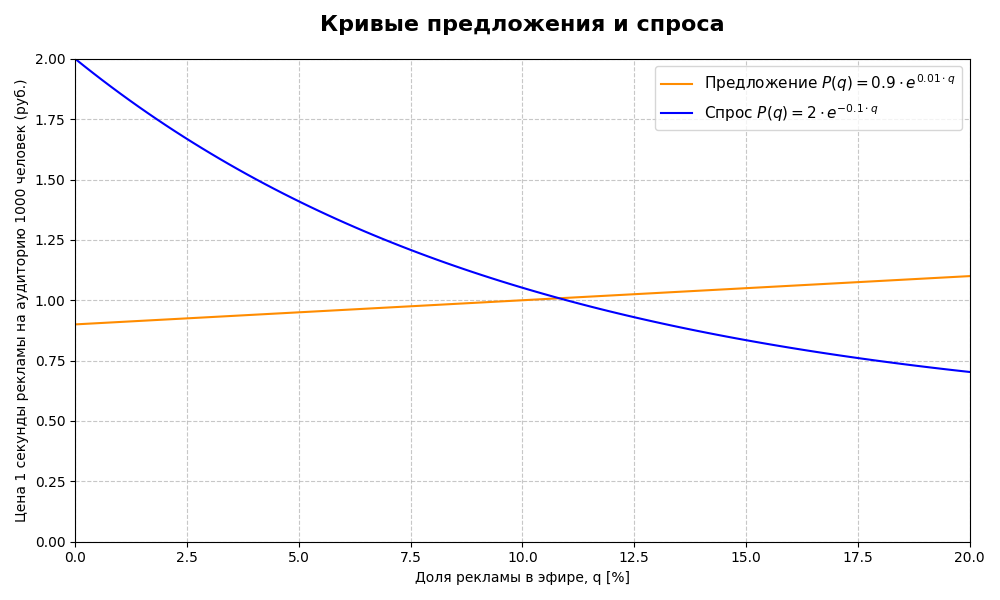
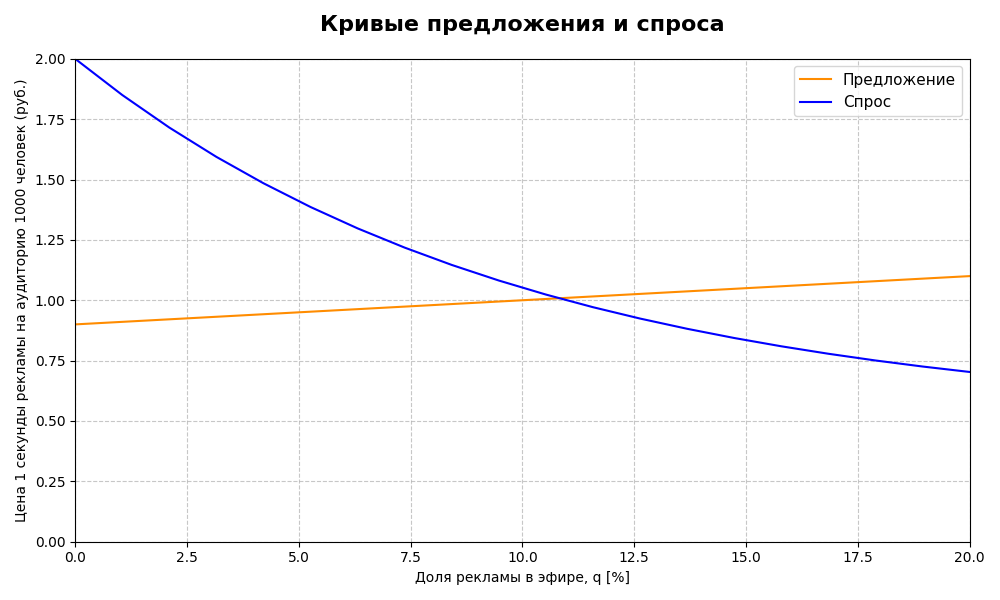
update charts

Changed region(s): [[0.651, 0.12, 0.961, 0.21], [0.093, 0.12, 0.124, 0.15]]

diff --git a/simulate/supply-demand.py b/simulate/supply-demand.py
@@ -1,9 +1,11 @@
 import numpy as np
+import pandas as pd
 import matplotlib.pyplot as plt
 
 # 1. Моделирование спроса и предложения
 Q_max = 20      # Максимальный объём рекламного времени за сутки, %
-q = np.linspace(0, Q_max, 100)
+N = 20        # Количество точек для моделирования
+q = np.linspace(0, Q_max, N)
 
 # Параметры линейной модели предложения
 P_min = 0.9                         # Минимальная цена (руб.) при нулевом объёме предложения
@@ -26,9 +28,22 @@ revenue = people * t * np.min(np.stack([P_supply, P_demand]), axis=0) / 600
 profit = revenue - cost
 
 # 3. Моделирование выручки с участием в ассоциации
-t_apb = np.linspace(2, 20, 100) * 3600 * 15 / 100
+t_apb = np.linspace(2, 20, N) * 3600 * 15 / 100
 revenue_apb  = people * t_apb * np.min(np.stack([P_supply, P_demand]), axis=0) / 600  + 2
 profit_apb = revenue_apb - cost
+
+df = pd.DataFrame({
+    'q, %': q,
+    'P_supply, руб.': [int(p) for p in P_supply],
+    'P_demand, руб.': [int(p) for p in P_demand],
+    't, сек.': [int(t_) for t_ in t],
+    'revenue, тыс. руб.': [int(r) for r in revenue],
+    'cost, тыс. руб.': [int(c) for c in cost],
+    'profit, тыс. руб.': [int(p) for p in profit],
+    't_apb, сек.': [int(t_apb_) for t_apb_ in t_apb],
+    'profit_apb, тыс. руб.': [int(p) for p in profit_apb]
+})
+df.to_csv('simulate/supply-demand.csv', index=False)
 
 # 4. Визуализация результатов
 
@@ -37,8 +52,8 @@ plt.figure(figsize=(10, 6))
 plt.xlabel('Доля рекламы в эфире, q [%]')
 plt.ylabel('Цена 1 секунды рекламы на аудиторию 1000 человек (руб.)')
 
-plt.plot(q, P_supply, label=f'Предложение $P(q) = {P_min} \\cdot e^{{{k_s} \\cdot q}}$', color='darkorange')
-plt.plot(q, P_demand, label=f'Спрос $P(q) = {P_max} \\cdot e^{{{k_d} \\cdot q}}$', color='blue')
+plt.plot(q, P_supply, label=f'Предложение', color='darkorange')
+plt.plot(q, P_demand, label=f'Спрос', color='blue')
 
 plt.title('Кривые предложения и спроса', fontsize=16, fontweight='bold', pad=20)
 plt.grid(True, linestyle='--', alpha=0.7)
@@ -53,7 +68,7 @@ plt.savefig('simulate/supply-demand.png')
 # Построение графиков выручки и затрат
 plt.figure(figsize=(10, 6))
 plt.xlabel('Проданное время за сутки, [сек.]')
-plt.ylabel('Выручка и затраты, [млн. руб.]') 
+plt.ylabel('Выручка и затраты, [тыс. руб.]') 
 
 plt.plot(t, revenue, label='Выручка', color='darkorange')
 plt.plot(t, cost, label='Затраты', color='blue')
